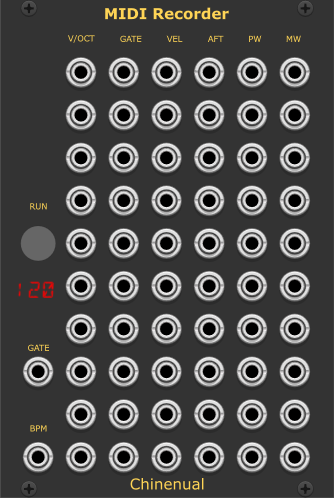
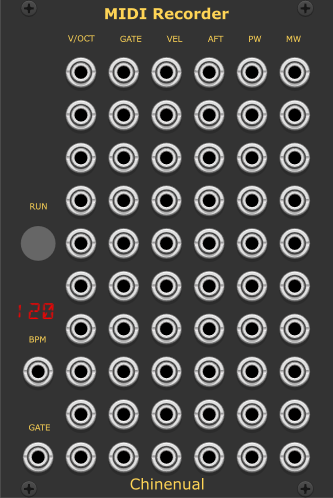
swap BPM and GATE jacks, tweak display position

diff --git a/src/MIDIRecorder.cpp b/src/MIDIRecorder.cpp
@@ -455,8 +455,8 @@ struct MIDIRecorderWidget : ModuleWidget {
 
 		addChild(createLightCentered<RecLight>(mm2px(Vec(FIRST_X, FIRST_Y+4*SPACING)), module, MIDIRecorder::REC_LIGHT));
 		
-		addInput(createInputCentered<PJ301MPort>(mm2px(Vec(FIRST_X, FIRST_Y+7*SPACING)), module, MIDIRecorder::RUN_INPUT));
-		addInput(createInputCentered<PJ301MPort>(mm2px(Vec(FIRST_X, FIRST_Y+9*SPACING)), module, MIDIRecorder::BPM_INPUT));
+		addInput(createInputCentered<PJ301MPort>(mm2px(Vec(FIRST_X, FIRST_Y+7*SPACING)), module, MIDIRecorder::BPM_INPUT));
+		addInput(createInputCentered<PJ301MPort>(mm2px(Vec(FIRST_X, FIRST_Y+9*SPACING)), module, MIDIRecorder::RUN_INPUT));
 
 		int t, i;
 		for (t = 0; t < NUM_TRACKS; t++) {
@@ -470,7 +470,7 @@ struct MIDIRecorderWidget : ModuleWidget {
 		SvgPanel* svgPanel = (SvgPanel*)getPanel();
 		auto bpmDisplay = new BPMDisplayWidget(&module->bpm);
 		bpmDisplay->box.size = Vec(30, 10);
-		bpmDisplay->box.pos = mm2px(Vec(FIRST_X, FIRST_Y+5*SPACING).minus(bpmDisplay->box.size.div(2)));
+		bpmDisplay->box.pos = mm2px(Vec(FIRST_X, FIRST_Y+5*SPACING + SPACING/2).minus(bpmDisplay->box.size.div(2)));
 		addChild(bpmDisplay);
 		//		svgPanel->fb->addChild(new DisplayBackground(bpmDisplay->box.pos, bpmDispla->box.size));
 
